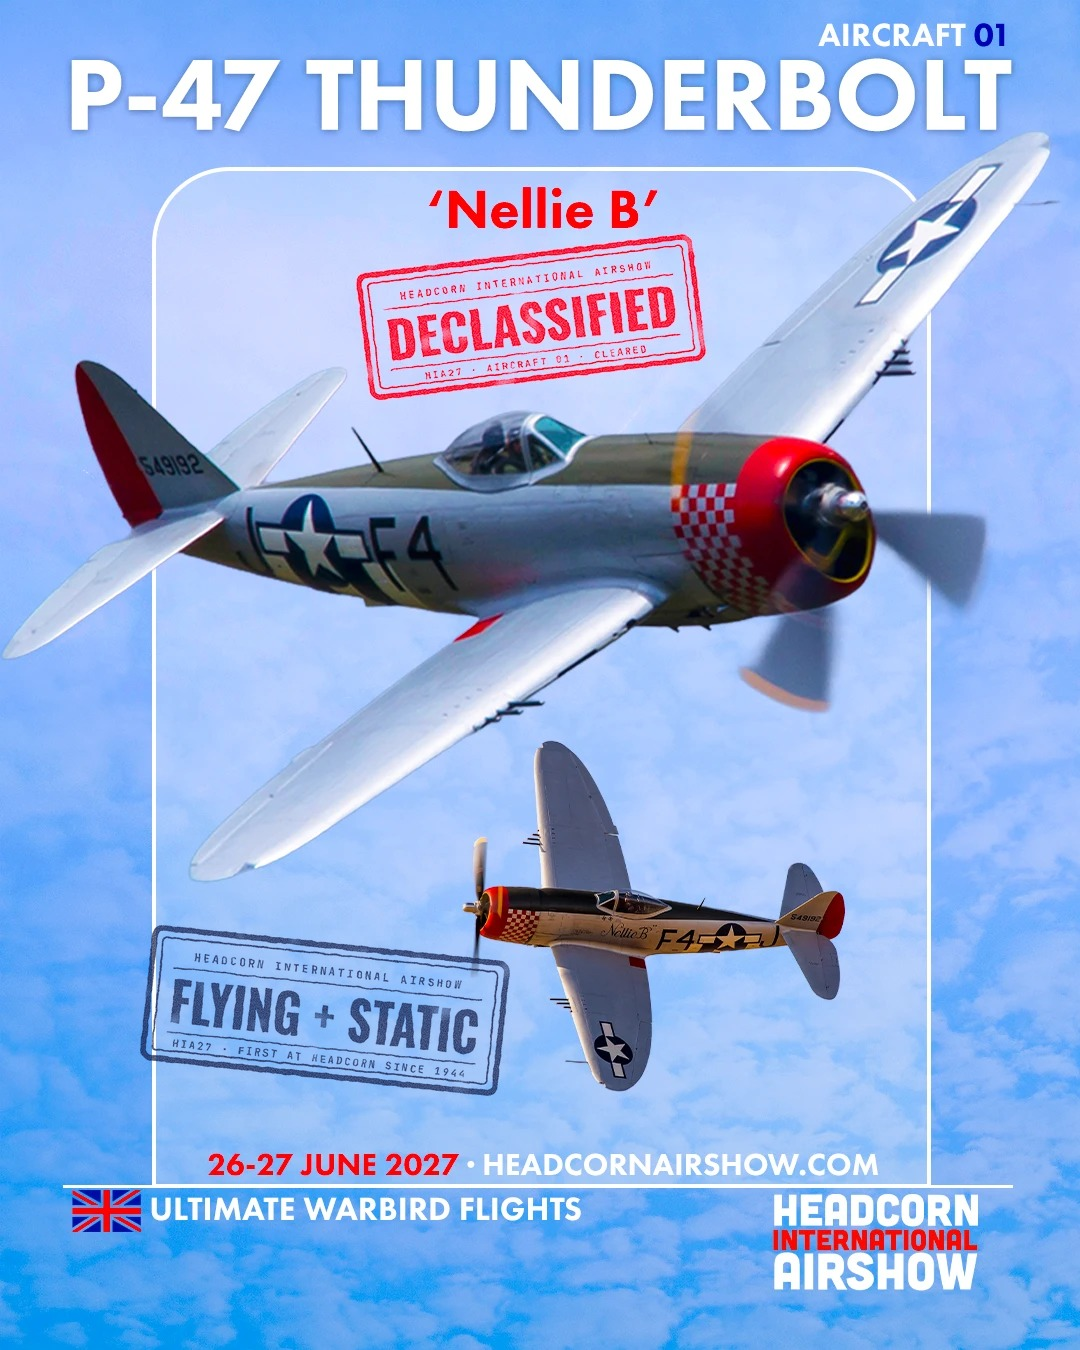
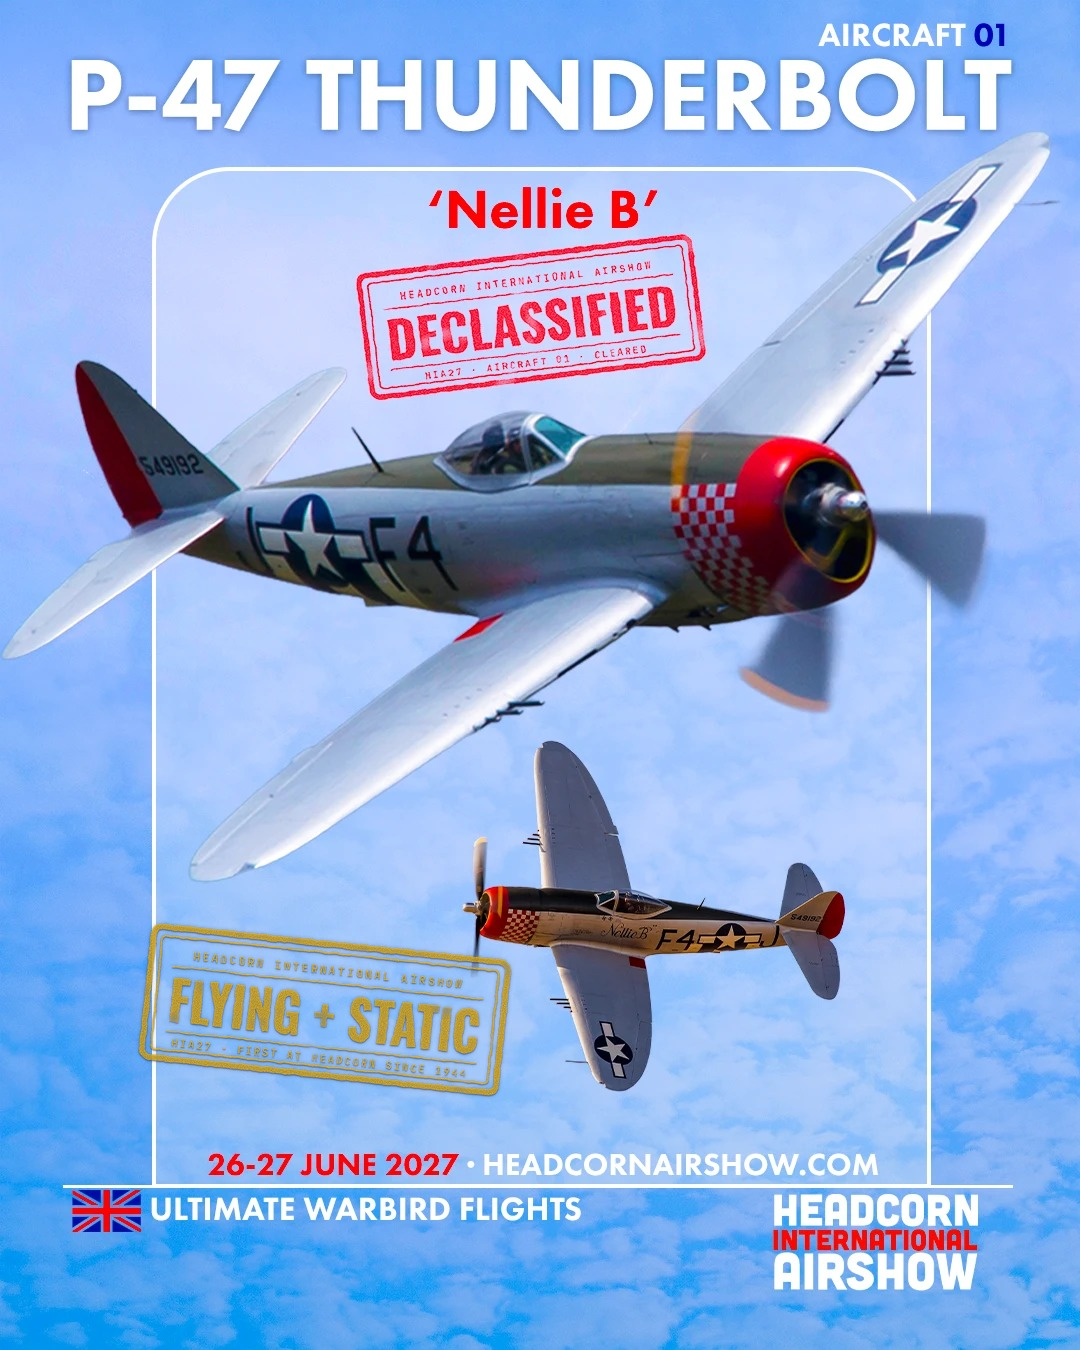
Add yellow FLYING + STATIC stamps with navy shadow; use on P-47 mock-up
Claude-Session: https://claude.ai/code/session_01PhGhgDuoCPAUC8ztAMshBa

Changed region(s): [[0.1222, 0.6844, 0.4889, 0.8089]]

diff --git a/scripts/stamps.js b/scripts/stamps.js
@@ -21,13 +21,17 @@ const OUT = path.join(ROOT, 'assets', 'stamps');
 const FONTS =
   '<link href="https://fonts.googleapis.com/css2?family=Oswald:wght@700&family=JetBrains+Mono:wght@700&display=swap" rel="stylesheet">';
 const COLOURS = { red: '#D40F0F', white: '#F4F5F8', navy: '#0A1543' };
+// Flying + static also comes in yellow, so it stands apart from the red DECLASSIFIED.
+const FLYING_COLOURS = { ...COLOURS, yellow: '#FFC20E' };
 
 // The stamp is an SVG: a double border, a top line, the big word and a bottom
 // line, tilted, with an ink filter that roughens the edges and knocks out
 // specks so it reads as a real rubber stamp rather than clean type.
-function stampSvg({ word, top, bottom, colour, seed = 3, tilt = -7 }) {
+function stampSvg({ word, top, bottom, colour, seed = 3, tilt = -7, shadow = false }) {
+  // Light inks (yellow) get a soft navy shadow so they survive a pale sky.
+  const style = shadow ? ' style="filter:drop-shadow(0 4px 3px rgba(10,21,67,.75)) drop-shadow(0 0 10px rgba(10,21,67,.45))"' : '';
   return `
-<svg xmlns="http://www.w3.org/2000/svg" viewBox="0 0 1100 520" width="2200" height="1040">
+<svg xmlns="http://www.w3.org/2000/svg" viewBox="0 0 1100 520" width="2200" height="1040"${style}>
   <defs>
     <filter id="ink" x="-5%" y="-5%" width="110%" height="110%">
       <feTurbulence type="fractalNoise" baseFrequency="0.04" numOctaves="3" seed="${seed}" result="warp"/>
@@ -109,9 +113,9 @@ async function renderExample(page, { photo, stamp, blur, label, name, file }) {
   let n = 0;
   // Flying + static: tilted the other way to DECLASSIFIED so the two never
   // look copy-pasted when they share a post.
-  for (const [name, colour] of Object.entries(COLOURS)) {
-    await renderStamp(page, { word: 'FLYING + STATIC', top, bottom: 'HIA27 · IN THE AIR · ON THE GROUND', colour, seed: 17, tilt: 6 }, path.join(OUT, `flying-static-${name}.png`));
-    await renderStamp(page, { word: 'FLYING + STATIC', top, bottom: 'HIA27 · FIRST AT HEADCORN SINCE 1944', colour, seed: 19, tilt: 6 }, path.join(OUT, `flying-static-first-${name}.png`));
+  for (const [name, colour] of Object.entries(FLYING_COLOURS)) {
+    await renderStamp(page, { word: 'FLYING + STATIC', top, bottom: 'HIA27 · IN THE AIR · ON THE GROUND', colour, seed: 17, tilt: 6, shadow: name === 'yellow' }, path.join(OUT, `flying-static-${name}.png`));
+    await renderStamp(page, { word: 'FLYING + STATIC', top, bottom: 'HIA27 · FIRST AT HEADCORN SINCE 1944', colour, seed: 19, tilt: 6, shadow: name === 'yellow' }, path.join(OUT, `flying-static-first-${name}.png`));
     n += 2;
   }
   if (process.argv[2] === 'flying') {
